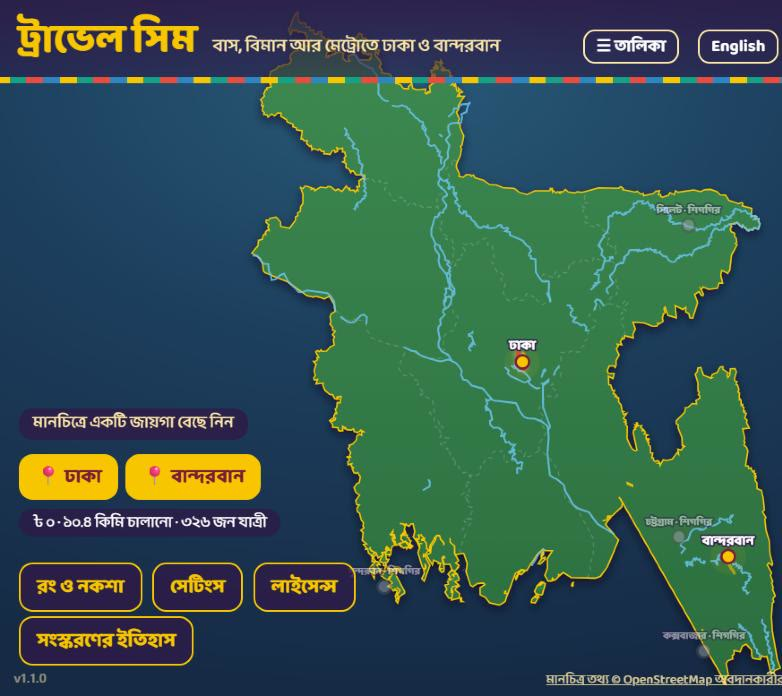
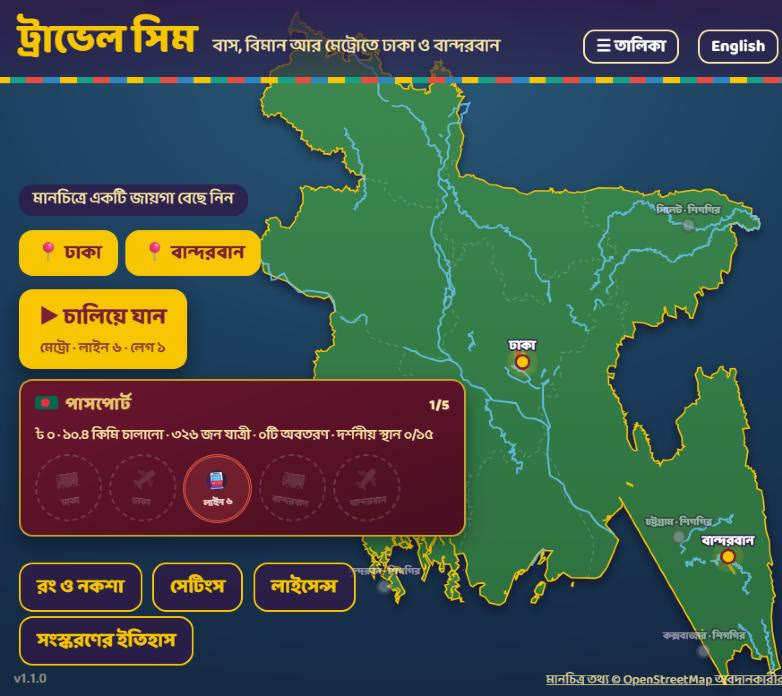
feat: add metro gamepad control, a passport card and map landmark names (v1.2.1)
The right stick drives the master controller (B emergency brake, LB/RB
doors, A close, Y camera). The map home shows a passport with career totals
and a stamp per place and mode played; zoomed-in places name their
landmarks at a constant size, decluttered, with found ones starred.

Changed region(s): [[0.0, 0.2414, 0.6138, 0.7845]]

diff --git a/src/i18n/i18n.ts b/src/i18n/i18n.ts
@@ -41,6 +41,7 @@ export const clock = (s: number): string =>
   num(`${Math.floor(Math.abs(s) / 60)}:${Math.floor(Math.abs(s) % 60).toString().padStart(2, '0')}`);
 
 const STOP_NAMES_BN: Record<string, string> = {
+  'Airport Terminal 3': 'বিমানবন্দর টার্মিনাল ৩', 'Farmgate metro station': 'ফার্মগেট মেট্রো স্টেশন', 'Novo Theatre': 'নভোথিয়েটার',
   'Uttara North': 'উত্তরা উত্তর', 'Uttara Center': 'উত্তরা মধ্য', 'Uttara South': 'উত্তরা দক্ষিণ', Pallabi: 'পল্লবী',
   'Mirpur 11': 'মিরপুর ১১', 'Mirpur 10': 'মিরপুর ১০', Kazipara: 'কাজীপাড়া', Shewrapara: 'শেওড়াপাড়া', Agargaon: 'আগারগাঁও',
   'Karwan Bazar': 'কারওয়ান বাজার', Shahbag: 'শাহবাগ', 'Dhaka University': 'ঢাকা বিশ্ববিদ্যালয়',
@@ -113,7 +114,7 @@ const EN: Dict = {
   chooseRoute: 'Choose a trip', chooseFlight: 'Choose a flight', km1: '{n} km', bestTk: 'best ৳ {n}', mapLabel: 'Map', legN: 'Leg {n}', rotatePhone: 'Turn your phone sideways to play', tiltToSteer: 'tilt to steer', tiltToFly: 'tilt to fly · ⟳ level', touchSteerLabel: 'Touch steering', touchFlightLabel: 'Touch flying', 'steer.wheel': 'Wheel', 'steer.tilt': 'Tilt', 'steer.buttons': 'Buttons', 'fly.stick': 'Stick', 'fly.tilt': 'Tilt', updateAvailable: 'Update available', downloadOffline: 'Download for offline', downloading: 'Downloading {p}%', downloaded: 'Ready offline',
   downloadFailed: 'Download failed: check the connection', addToHome: 'To play offline on iPhone, first add the game to your Home Screen (Share → Add to Home Screen).',
   storage: 'Offline storage', storageNone: 'nothing downloaded', storageWarn: 'Your browser may clear downloads when storage runs low; they download again when needed.',
-  delete: 'Delete', mb: '{n} MB', partial: 'partly cached', osmCredit: 'Map data © OpenStreetMap contributors', whatsNew: "What's new", gotIt: 'Got it', versionHistory: 'Version history', metroMode: 'Metro', mapHint: 'Choose a place on the map', listView: 'List', continueTrip: 'Continue', challengeN: 'Challenge {n}', mapTitle: 'Map of Bangladesh', 'place.chattogram': 'Chattogram · soon', 'place.sylhet': 'Sylhet · soon', 'place.coxsbazar': "Cox's Bazar · soon", 'place.sundarbans': 'Sundarbans · soon', touchEb: 'EMERGENCY', metroBlurb: 'Drive a six-car MRT Line 6 train on the real line: signals, stations, doors and passengers.', 'region.line6': 'Line 6', metroHelp: 'W / S master controller · Q / E doors · C close · Space emergency brake', 'cam.cab': 'Cab', 'cam.chase': 'Chase', 'cam.platform': 'Platform', 'cam.side': 'Alongside', 'cam.aerial': 'Aerial', 'cam.passenger': 'Passenger seat', 'cam.trackside': 'Trackside', metroControls: 'W / S: master controller · Space: emergency brake · Q / E: open doors left / right · C: close doors · V: camera', sideLeft: 'left', metroDue: 'due {t}', metroLate: 'late {t}', sideRight: 'right', arriving: 'Arriving at {name}. Doors will open on the {side}.', nextStation: 'Next station: {name}', doorsClosing: 'Doors closing. Please stand clear.', mayClose: 'Boarding complete: doors may close (C)', doorsWrongSide: 'The platform is on the {side}', stopShort: 'Short of the mark by {m} m: move up slowly', stopPerfect: 'Perfect stop ({m} m)', stopGood: 'Good stop ({m} m)', stopRough: 'Past the mark ({m} m): the doors only just line up', overrun: "Overran {name}: the doors can't open here", platformLeft: '{n} passengers left on the platform', legDone: '{name}: the end of this trip. All passengers have left the train.', currentVersion: 'current', loadMap: 'Loading the map…', loadStreets: 'Building the streets around you…', loadTraffic: 'Bringing in traffic and trains…', loadPrepare: 'Getting ready…', loadZone: 'Loading the flight area…', loadTerrain: 'Building hills and city below…', crossingClosed: 'Level crossing closed: a train is coming', volMaster: 'Volume', volMusic: 'Music', volSfx: 'Sound effects', volVoice: 'Helper voice', liveries: 'Liveries', unlockAt: '৳ {n} to unlock', inUse: 'In use', choose: 'Use',
+  delete: 'Delete', mb: '{n} MB', partial: 'partly cached', osmCredit: 'Map data © OpenStreetMap contributors', whatsNew: "What's new", gotIt: 'Got it', versionHistory: 'Version history', metroMode: 'Metro', passport: 'Passport', mapHint: 'Choose a place on the map', listView: 'List', continueTrip: 'Continue', challengeN: 'Challenge {n}', mapTitle: 'Map of Bangladesh', 'place.chattogram': 'Chattogram · soon', 'place.sylhet': 'Sylhet · soon', 'place.coxsbazar': "Cox's Bazar · soon", 'place.sundarbans': 'Sundarbans · soon', touchEb: 'EMERGENCY', metroBlurb: 'Drive a six-car MRT Line 6 train on the real line: signals, stations, doors and passengers.', 'region.line6': 'Line 6', metroHelp: 'W / S master controller · Q / E doors · C close · Space emergency brake', 'cam.cab': 'Cab', 'cam.chase': 'Chase', 'cam.platform': 'Platform', 'cam.side': 'Alongside', 'cam.aerial': 'Aerial', 'cam.passenger': 'Passenger seat', 'cam.trackside': 'Trackside', metroControls: 'W / S: master controller · Space: emergency brake · Q / E: open doors left / right · C: close doors · V: camera', sideLeft: 'left', metroDue: 'due {t}', metroLate: 'late {t}', sideRight: 'right', arriving: 'Arriving at {name}. Doors will open on the {side}.', nextStation: 'Next station: {name}', doorsClosing: 'Doors closing. Please stand clear.', mayClose: 'Boarding complete: doors may close (C)', doorsWrongSide: 'The platform is on the {side}', stopShort: 'Short of the mark by {m} m: move up slowly', stopPerfect: 'Perfect stop ({m} m)', stopGood: 'Good stop ({m} m)', stopRough: 'Past the mark ({m} m): the doors only just line up', overrun: "Overran {name}: the doors can't open here", platformLeft: '{n} passengers left on the platform', legDone: '{name}: the end of this trip. All passengers have left the train.', currentVersion: 'current', loadMap: 'Loading the map…', loadStreets: 'Building the streets around you…', loadTraffic: 'Bringing in traffic and trains…', loadPrepare: 'Getting ready…', loadZone: 'Loading the flight area…', loadTerrain: 'Building hills and city below…', crossingClosed: 'Level crossing closed: a train is coming', volMaster: 'Volume', volMusic: 'Music', volSfx: 'Sound effects', volVoice: 'Helper voice', liveries: 'Liveries', unlockAt: '৳ {n} to unlock', inUse: 'In use', choose: 'Use',
   'livery.city': 'City', 'livery.river': 'River Blue', 'livery.sunrise': 'Sunrise', 'livery.teal': 'Teal Express', 'livery.rickshaw': 'Rickshaw Art',
   'livery.classic': 'Classic', 'livery.monsoon': 'Monsoon', 'livery.mangrove': 'Mangrove', 'livery.jute': 'Golden Jute',
   saveCode: 'Save code', exportCode: 'Show my save code', importCode: 'Load a save code', copy: 'Copy', copied: 'Copied',
@@ -175,7 +176,7 @@ const BN: Dict = {
   chooseRoute: 'যাত্রা বেছে নিন', chooseFlight: 'ফ্লাইট বেছে নিন', km1: '{n} কিমি', bestTk: 'সেরা ৳ {n}', mapLabel: 'মানচিত্র', legN: 'লেগ {n}', rotatePhone: 'খেলতে ফোনটি আড়াআড়ি ঘোরান', tiltToSteer: 'কাত করে স্টিয়ারিং', tiltToFly: 'কাত করে উড়ুন · ⟳ সোজা', touchSteerLabel: 'টাচ স্টিয়ারিং', touchFlightLabel: 'টাচে ওড়া', 'steer.wheel': 'স্টিয়ারিং হুইল', 'steer.tilt': 'কাত', 'steer.buttons': 'বোতাম', 'fly.stick': 'জয়স্টিক', 'fly.tilt': 'কাত', updateAvailable: 'নতুন সংস্করণ এসেছে', downloadOffline: 'অফলাইনের জন্য ডাউনলোড', downloading: 'ডাউনলোড হচ্ছে {p}%', downloaded: 'অফলাইনে খেলা যাবে',
   downloadFailed: 'ডাউনলোড হয়নি: সংযোগ দেখুন', addToHome: 'আইফোনে অফলাইনে খেলতে আগে গেমটি হোম স্ক্রিনে যোগ করুন (Share → Add to Home Screen)।',
   storage: 'অফলাইন স্টোরেজ', storageNone: 'কিছু ডাউনলোড হয়নি', storageWarn: 'জায়গা কম পড়লে ব্রাউজার ডাউনলোড মুছে দিতে পারে; দরকার হলে আবার নামবে।',
-  delete: 'মুছুন', mb: '{n} এমবি', partial: 'আংশিক', osmCredit: 'মানচিত্র তথ্য © OpenStreetMap অবদানকারীরা', whatsNew: 'নতুন যা এসেছে', gotIt: 'ঠিক আছে', versionHistory: 'সংস্করণের ইতিহাস', metroMode: 'মেট্রো', mapHint: 'মানচিত্রে একটি জায়গা বেছে নিন', listView: 'তালিকা', continueTrip: 'চালিয়ে যান', challengeN: 'চ্যালেঞ্জ {n}', mapTitle: 'বাংলাদেশের মানচিত্র', 'place.chattogram': 'চট্টগ্রাম · শিগগির', 'place.sylhet': 'সিলেট · শিগগির', 'place.coxsbazar': 'কক্সবাজার · শিগগির', 'place.sundarbans': 'সুন্দরবন · শিগগির', touchEb: 'জরুরি ব্রেক', metroBlurb: 'আসল লাইনে ছয় বগির এমআরটি লাইন ৬ ট্রেন চালান: সিগন্যাল, স্টেশন, দরজা আর যাত্রী।', 'region.line6': 'লাইন ৬', metroHelp: 'W / S মাস্টার কন্ট্রোলার · Q / E দরজা · C বন্ধ · Space জরুরি ব্রেক', 'cam.cab': 'চালকের কেবিন', 'cam.chase': 'পেছন থেকে', 'cam.platform': 'প্ল্যাটফর্ম থেকে', 'cam.side': 'পাশ থেকে', 'cam.aerial': 'আকাশ থেকে', 'cam.passenger': 'যাত্রীর আসন', 'cam.trackside': 'লাইনের পাশ থেকে', metroControls: 'W / S: মাস্টার কন্ট্রোলার · Space: জরুরি ব্রেক · Q / E: বাম / ডান দরজা খুলুন · C: দরজা বন্ধ · V: ক্যামেরা', sideLeft: 'বাম', metroDue: 'সময় বাকি {t}', metroLate: '{t} দেরি', sideRight: 'ডান', arriving: 'আমরা {name} স্টেশনে পৌঁছাচ্ছি। দরজা {side} দিকে খুলবে।', nextStation: 'পরবর্তী স্টেশন: {name}', doorsClosing: 'দরজা বন্ধ হচ্ছে, দরজা থেকে দূরে দাঁড়ান।', mayClose: 'যাত্রী ওঠা শেষ: দরজা বন্ধ করা যায় (C)', doorsWrongSide: 'প্ল্যাটফর্ম {side} দিকে', stopShort: 'দাগের {m} মি আগে থেমেছেন: ধীরে এগোন', stopPerfect: 'নিখুঁত থামা ({m} মি)', stopGood: 'ভালো থামা ({m} মি)', stopRough: 'দাগ পেরিয়ে থেমেছেন ({m} মি): দরজা কোনোরকমে মেলে', overrun: '{name} পেরিয়ে গেছেন: এখানে দরজা খুলবে না', platformLeft: '{n} জন যাত্রী প্ল্যাটফর্মে রয়ে গেলেন', legDone: '{name}: যাত্রা শেষ। সব যাত্রী নেমে গেছেন।', currentVersion: 'চলতি', loadMap: 'মানচিত্র লোড হচ্ছে…', loadStreets: 'আশপাশের রাস্তা আর ভবন তৈরি হচ্ছে…', loadTraffic: 'যানবাহন আর ট্রেন আসছে…', loadPrepare: 'প্রস্তুত হচ্ছে…', loadZone: 'আকাশপথের এলাকা লোড হচ্ছে…', loadTerrain: 'নিচের পাহাড় আর শহর তৈরি হচ্ছে…', crossingClosed: 'রেলক্রসিং বন্ধ: ট্রেন আসছে', volMaster: 'ভলিউম', volMusic: 'গান', volSfx: 'শব্দ', volVoice: 'হেল্পারের কণ্ঠ', liveries: 'রং ও নকশা', unlockAt: '৳ {n} আয় হলে খুলবে', inUse: 'ব্যবহার হচ্ছে', choose: 'বেছে নিন',
+  delete: 'মুছুন', mb: '{n} এমবি', partial: 'আংশিক', osmCredit: 'মানচিত্র তথ্য © OpenStreetMap অবদানকারীরা', whatsNew: 'নতুন যা এসেছে', gotIt: 'ঠিক আছে', versionHistory: 'সংস্করণের ইতিহাস', metroMode: 'মেট্রো', passport: 'পাসপোর্ট', mapHint: 'মানচিত্রে একটি জায়গা বেছে নিন', listView: 'তালিকা', continueTrip: 'চালিয়ে যান', challengeN: 'চ্যালেঞ্জ {n}', mapTitle: 'বাংলাদেশের মানচিত্র', 'place.chattogram': 'চট্টগ্রাম · শিগগির', 'place.sylhet': 'সিলেট · শিগগির', 'place.coxsbazar': 'কক্সবাজার · শিগগির', 'place.sundarbans': 'সুন্দরবন · শিগগির', touchEb: 'জরুরি ব্রেক', metroBlurb: 'আসল লাইনে ছয় বগির এমআরটি লাইন ৬ ট্রেন চালান: সিগন্যাল, স্টেশন, দরজা আর যাত্রী।', 'region.line6': 'লাইন ৬', metroHelp: 'W / S মাস্টার কন্ট্রোলার · Q / E দরজা · C বন্ধ · Space জরুরি ব্রেক', 'cam.cab': 'চালকের কেবিন', 'cam.chase': 'পেছন থেকে', 'cam.platform': 'প্ল্যাটফর্ম থেকে', 'cam.side': 'পাশ থেকে', 'cam.aerial': 'আকাশ থেকে', 'cam.passenger': 'যাত্রীর আসন', 'cam.trackside': 'লাইনের পাশ থেকে', metroControls: 'W / S: মাস্টার কন্ট্রোলার · Space: জরুরি ব্রেক · Q / E: বাম / ডান দরজা খুলুন · C: দরজা বন্ধ · V: ক্যামেরা', sideLeft: 'বাম', metroDue: 'সময় বাকি {t}', metroLate: '{t} দেরি', sideRight: 'ডান', arriving: 'আমরা {name} স্টেশনে পৌঁছাচ্ছি। দরজা {side} দিকে খুলবে।', nextStation: 'পরবর্তী স্টেশন: {name}', doorsClosing: 'দরজা বন্ধ হচ্ছে, দরজা থেকে দূরে দাঁড়ান।', mayClose: 'যাত্রী ওঠা শেষ: দরজা বন্ধ করা যায় (C)', doorsWrongSide: 'প্ল্যাটফর্ম {side} দিকে', stopShort: 'দাগের {m} মি আগে থেমেছেন: ধীরে এগোন', stopPerfect: 'নিখুঁত থামা ({m} মি)', stopGood: 'ভালো থামা ({m} মি)', stopRough: 'দাগ পেরিয়ে থেমেছেন ({m} মি): দরজা কোনোরকমে মেলে', overrun: '{name} পেরিয়ে গেছেন: এখানে দরজা খুলবে না', platformLeft: '{n} জন যাত্রী প্ল্যাটফর্মে রয়ে গেলেন', legDone: '{name}: যাত্রা শেষ। সব যাত্রী নেমে গেছেন।', currentVersion: 'চলতি', loadMap: 'মানচিত্র লোড হচ্ছে…', loadStreets: 'আশপাশের রাস্তা আর ভবন তৈরি হচ্ছে…', loadTraffic: 'যানবাহন আর ট্রেন আসছে…', loadPrepare: 'প্রস্তুত হচ্ছে…', loadZone: 'আকাশপথের এলাকা লোড হচ্ছে…', loadTerrain: 'নিচের পাহাড় আর শহর তৈরি হচ্ছে…', crossingClosed: 'রেলক্রসিং বন্ধ: ট্রেন আসছে', volMaster: 'ভলিউম', volMusic: 'গান', volSfx: 'শব্দ', volVoice: 'হেল্পারের কণ্ঠ', liveries: 'রং ও নকশা', unlockAt: '৳ {n} আয় হলে খুলবে', inUse: 'ব্যবহার হচ্ছে', choose: 'বেছে নিন',
   'livery.city': 'শহুরে', 'livery.river': 'নদী নীল', 'livery.sunrise': 'সূর্যোদয়', 'livery.teal': 'টিল এক্সপ্রেস', 'livery.rickshaw': 'রিকশা আর্ট',
   'livery.classic': 'ক্লাসিক', 'livery.monsoon': 'বর্ষা', 'livery.mangrove': 'ম্যানগ্রোভ', 'livery.jute': 'সোনালি আঁশ',
   saveCode: 'সেভ কোড', exportCode: 'আমার সেভ কোড দেখান', importCode: 'সেভ কোড বসান', copy: 'কপি', copied: 'কপি হয়েছে',

diff --git a/src/ui/map/menuMap.ts b/src/ui/map/menuMap.ts
@@ -2,6 +2,7 @@
 // with its rivers and divisions, a pin for each playable Region (and dimmed coming-soon pins), the
 // routes you've driven lit up, and the landmarks you've found. It stays mounted while the menu
 // redraws, so choosing a Region can glide the view in and back out.
+import { place } from '../../i18n/i18n';
 import { LANDMARKS } from '../../shared/landmarks';
 import { BD_DIVISIONS, BD_ISLANDS, BD_LAND, BD_RIVERS, BD_VIEWBOX, bdXY } from './bdMap';
 
@@ -22,7 +23,7 @@ const SOON: Array<{ key: string; lat: number; lon: number }> = [
 ];
 /** How far to zoom on a Region: its centre and the width of view (km). */
 const FOCUS: Record<MapRegion, { lat: number; lon: number; km: number }> = {
-  dhaka: { lat: 23.79, lon: 90.39, km: 42 },
+  dhaka: { lat: 23.778, lon: 90.398, km: 19 },
   bandarban: { lat: 22.12, lon: 92.24, km: 46 },
 };
 
@@ -45,6 +46,11 @@ export class MenuMap {
     const [vx, vy, vw, vh] = BD_VIEWBOX;
     const routes = progress.routes.map(r => `<path class="route ${r.kind} ${r.done ? 'done' : ''}" d="${pathOf(r.latLon)}"/>`).join('');
     const found = LANDMARKS.filter(l => progress.found.has(l.name)).map(l => { const [x, y] = bdXY(l.lat, l.lon); return `<circle class="found" cx="${x.toFixed(2)}" cy="${y.toFixed(2)}" r="0.9"><title>${l.name}</title></circle>`; }).join('');
+    // Each Region's landmarks, labelled, shown only while that Region is zoomed in: found ones in gold.
+    const labels = PINS.map(r => `<g class="lm lm-${r.id}">${LANDMARKS.filter(l => l.places.some(pl => pl.startsWith(r.id))).map(l => {
+      const [x, y] = bdXY(l.lat, l.lon), got = progress.found.has(l.name);
+      return `<g class="lm-mark ${got ? 'got' : ''} ${l.tier}" transform="translate(${x.toFixed(2)},${y.toFixed(2)})"><circle/><text>${got ? '★ ' : ''}${place(l.name)}</text></g>`;
+    }).join('')}</g>`).join('');
     const pin = (x: number, y: number, cls: string, text: string, id?: string) => `
       <g class="pin ${cls}" transform="translate(${x.toFixed(2)},${y.toFixed(2)})" ${id ? `data-pin="${id}" tabindex="0" role="button" aria-label="${text}"` : ''}>
         <circle class="pulse" r="10"/><circle class="dot" r="6"/><text y="-11">${text}</text></g>`;
@@ -57,7 +63,7 @@ export class MenuMap {
         <g filter="url(#landShadow)"><path class="land" d="${BD_LAND}"/>${BD_ISLANDS.map(d => `<path class="land" d="${d}"/>`).join('')}</g>
         ${BD_DIVISIONS.map(d => `<path class="division" d="${d}"/>`).join('')}
         ${BD_RIVERS.map(r => `<path class="river" d="${r.d}"><title>${r.name}</title></path>`).join('')}
-        ${routes}${found}
+        ${routes}${found}${labels}
         ${SOON.map(p => { const [x, y] = bdXY(p.lat, p.lon); return pin(x, y, 'soon', this.label(p.key)); }).join('')}
         ${PINS.map(p => { const [x, y] = bdXY(p.lat, p.lon); return pin(x, y, `live ${p.id}`, this.label(`region.${p.id}`), p.id); }).join('')}
       </g></svg>`;
@@ -75,6 +81,7 @@ export class MenuMap {
     if (r === this.focusRegion) return;
     this.focusRegion = r;
     this.el.classList.toggle('focused', !!r);
+    this.el.dataset.focus = r ?? '';
     this.applyView();
   }
 
@@ -102,7 +109,7 @@ export class MenuMap {
       target = [cx - vw * (wide ? free / 2 : 0.5), cy - vh * (wide ? 0.5 : 0.22), vw, vh];
     }
     cancelAnimationFrame(this.anim);
-    if (instant) { this.view = target; this.svg.setAttribute('viewBox', target.join(' ')); return; }
+    if (instant) { this.view = target; this.svg.setAttribute('viewBox', target.join(' ')); this.scaleLabels(); this.declutter(); return; }
     const from = [...this.view], t0 = performance.now(), DUR = 900;
     const ease = (t: number) => 1 - Math.pow(1 - t, 3);
     const step = (now: number) => {
@@ -113,8 +120,34 @@ export class MenuMap {
       const x = from[0] + (target[0] - from[0]) * k, y = from[1] + (target[1] - from[1]) * k;
       this.view = [x, y, w, h];
       this.svg.setAttribute('viewBox', this.view.map(v => v.toFixed(2)).join(' '));
+      this.scaleLabels();
       if (k < 1) this.anim = requestAnimationFrame(step);
+      else this.declutter();
     };
     this.anim = requestAnimationFrame(step);
+  }
+
+  /** Landmark labels stay the same size on screen at any zoom: their sizes are set in screen pixels. */
+  private scaleLabels(): void {
+    const u = this.view[2] / (this.el.clientWidth || innerWidth);   // map units per screen pixel
+    this.svg.style.setProperty('--lm-font', `${(11 * u).toFixed(4)}px`);
+    this.svg.style.setProperty('--lm-r', `${(3 * u).toFixed(4)}px`);
+    this.svg.style.setProperty('--lm-dx', `${(6 * u).toFixed(4)}px`);
+    this.svg.style.setProperty('--lm-stroke', `${(2.5 * u).toFixed(4)}px`);
+  }
+
+  /** Hides labels that would overlap one already placed (found and hero landmarks go first). */
+  private declutter(): void {
+    if (!this.focusRegion) return;
+    const marks = [...this.el.querySelectorAll<SVGGElement>(`.lm-${this.focusRegion} .lm-mark`)];
+    marks.sort((a, b) => Number(b.classList.contains('got')) - Number(a.classList.contains('got')) || Number(b.classList.contains('hero')) - Number(a.classList.contains('hero')));
+    const placed: DOMRect[] = [];
+    for (const m of marks) {
+      const text = m.querySelector('text')!;
+      text.style.display = '';
+      const r = text.getBoundingClientRect();
+      const hit = placed.some(p => r.left < p.right + 4 && r.right + 4 > p.left && r.top < p.bottom + 2 && r.bottom + 2 > p.top);
+      if (hit) text.style.display = 'none'; else placed.push(r);
+    }
   }
 }

diff --git a/src/ui/menu.ts b/src/ui/menu.ts
@@ -210,18 +210,40 @@ async function mapProgress(): Promise<MapProgress> {
   return out;
 }
 
-/** The map home: a hint, the Regions as big buttons too, Continue, the career line and the links. */
+/** The map home: a hint, the Regions as big buttons too, Continue, the passport and the links. */
 function mapHome(p: Progress): string {
-  const c = p.career, last = readSave().lastTrip;
+  const last = readSave().lastTrip;
   return `<div class="map-home">
     <p class="map-hint">${t('mapHint')}</p>
     <div class="map-regions">${(['dhaka', 'bandarban'] as const).map(r => `<button class="btn" data-pick="${r}">📍 ${t(`region.${r}`)}</button>`).join('')}</div>
     ${last ? `<button class="btn continue" data-continue>▶ ${t('continueTrip')}<small>${last.label}</small></button>` : ''}
-    <div class="map-career">৳ ${amount(c.taka)} · ${t('careerKm', { n: num(c.km.toFixed(1)) })} · ${t('careerPax', { n: amount(c.passengers) })}</div>
+    ${passport(p)}
     <div class="links"><button class="btn alt" data-go='{"screen":"liveries"}'>${t('liveries')}</button>
       <button class="btn alt" data-go='{"screen":"settings"}'>${t('settings')}</button>
       <button class="btn alt" data-go='{"screen":"licences"}'>${t('licences')}</button>
       <button class="btn alt" data-go='{"screen":"history"}'>${t('versionHistory')}</button></div>
+  </div>`;
+}
+
+/**
+ * The career as a passport: the totals, and a stamp for each place and mode where a trip has been
+ * finished (any Leg for bus and metro, any Challenge for the plane).
+ */
+function passport(p: Progress): string {
+  const c = p.career;
+  const leg = (r: string) => Object.entries(p.legs).some(([k, v]) => k.startsWith(`${r}:`) && v?.done);
+  const ch = (r: string) => Object.entries(p.challenges).some(([k, v]) => k.startsWith(`${r}-`) && v?.done);
+  const stamps = [
+    { icon: '🚌', place: 'region.dhaka', done: leg('dhaka') },
+    { icon: '✈', place: 'region.dhaka', done: ch('dhaka') },
+    { icon: '🚇', place: 'region.line6', done: leg('line6') },
+    { icon: '🚌', place: 'region.bandarban', done: leg('bandarban') },
+    { icon: '✈', place: 'region.bandarban', done: ch('bandarban') },
+  ];
+  return `<div class="passport">
+    <div class="passport-head"><span class="bd-flag" aria-hidden="true"></span>${t('passport')}<span>${stamps.filter(s => s.done).length}/${stamps.length}</span></div>
+    <div class="passport-stats">৳ ${amount(c.taka)} · ${t('careerKm', { n: num(c.km.toFixed(1)) })} · ${t('careerPax', { n: amount(c.passengers) })} · ${t('careerLandings', { n: c.flightsLanded })} · ${t('landmarks', { n: landmarksFound().size, of: 15 })}</div>
+    <div class="stamps">${stamps.map((s, i) => `<span class="stamp ${s.done ? 'on' : ''}" style="--tilt:${[-8, 6, -4, 9, -6][i]}deg" title="${t(s.place)}">${s.icon}<small>${t(s.place)}</small></span>`).join('')}</div>
   </div>`;
 }
 

diff --git a/src/styles.css b/src/styles.css
@@ -359,3 +359,26 @@ button.app-version.link:hover, button.app-version.link:focus-visible { opacity: 
 
 /* Landscape phones are short: drop the destination picture so the trips show straight away. */
 @media (max-height: 420px) { .dest-card .dest-hero { display: none; } .dest-card { top: 64px; } }
+
+/* The passport career card on the map home: totals, and a stamp per place and mode played. */
+.passport { width: 100%; box-sizing: border-box; padding: 8px 12px 10px; border-radius: 12px; background: linear-gradient(160deg, #6a1630, #4a0f22); border: 2px solid #c9a227; box-shadow: 0 6px 16px rgba(0,0,0,.4); }
+.passport-head { display: flex; justify-content: space-between; align-items: baseline; color: #e9c46a; font: 800 15px var(--art-font); letter-spacing: .04em; }
+.passport-head span { font-size: 12px; color: var(--cream); }
+.passport-stats { margin: 4px 0 8px; font-size: 12px; color: var(--cream); line-height: 1.4; }
+.stamps { display: flex; gap: 6px; flex-wrap: wrap; }
+.stamp { width: 54px; height: 54px; border-radius: 50%; border: 2px dashed rgba(233,196,106,.45); display: grid; place-items: center; align-content: center; font-size: 18px; color: rgba(255,255,255,.35); filter: grayscale(1) opacity(.5); transform: rotate(var(--tilt)); }
+.stamp small { font: 700 8px var(--art-font); max-width: 50px; text-align: center; line-height: 1.1; }
+.stamp.on { border: 3px double #e05a47; color: #ffdfd8; filter: none; background: rgba(224,90,71,.18); }
+
+/* Landmark labels on the zoomed map: only the focused Region's, found ones in gold. */
+.menu-map .lm { display: none; }
+.menu-map[data-focus="dhaka"] .lm-dhaka, .menu-map[data-focus="bandarban"] .lm-bandarban { display: inline; }
+.menu-map .lm-mark circle { r: var(--lm-r); fill: #fff; stroke: var(--plum); stroke-width: 1px; vector-effect: non-scaling-stroke; opacity: .75; }
+.menu-map .lm-mark text { font-family: var(--art-font); font-weight: 700; font-size: var(--lm-font); transform: translate(var(--lm-dx), calc(var(--lm-font) * .35)); fill: rgba(255,255,255,.8); paint-order: stroke; stroke: rgba(46,26,71,.9); stroke-width: var(--lm-stroke); }
+.menu-map .lm-mark.got circle { fill: var(--yellow); opacity: 1; }
+.menu-map .lm-mark.got text { fill: var(--yellow); }
+/* Bangladesh's flag, drawn (Windows shows the flag emoji as the letters BD). */
+.bd-flag { display: inline-block; width: 20px; height: 12px; margin-right: 6px; vertical-align: -1px; border-radius: 2px; background: radial-gradient(circle at 45% 50%, #f42a41 0 3.6px, #006a4e 3.9px); }
+.passport-head > span:last-child { margin-left: auto; }
+.passport-head { justify-content: flex-start; }
+

diff --git a/src/metro/gamepad.ts b/src/metro/gamepad.ts
@@ -1,0 +1,38 @@
+// Metro gamepad controls (SPEC §20): the right stick is the master controller (up for power, centre
+// coast, down for brake; it only takes over once moved, so the keyboard still works), B is the
+// emergency brake, the bumpers open the left / right doors, A closes them, Y changes camera and the
+// View/Back button the map.
+import { NOTCH_MAX, type Train } from './Train';
+
+export interface MetroPadActions { doors: (side: 'left' | 'right') => void; close: () => void; camera: () => void; map: () => void; }
+
+const DEAD = 0.18;
+
+export class MetroGamepad {
+  private was: boolean[] = [];
+  private stickActive = false;
+
+  constructor(private train: Train, private a: MetroPadActions) {}
+
+  /** Call once a frame. */
+  poll(): void {
+    const gp = navigator.getGamepads?.().find(Boolean);
+    if (!gp) return;
+    // Right stick Y (axis 3): −1 up = P4, 0 = N, +1 down = B7.
+    const y = gp.axes[3] ?? 0;
+    if (Math.abs(y) > DEAD) this.stickActive = true;
+    if (this.stickActive && this.train.notch !== -8) {
+      const n = Math.abs(y) <= DEAD ? 0 : y < 0 ? Math.round(((-y - DEAD) / (1 - DEAD)) * NOTCH_MAX) : -Math.round(((y - DEAD) / (1 - DEAD)) * 7);
+      if (n !== this.train.notch) this.train.setNotch(n);
+    }
+    // Buttons on press (not while held).
+    const pressed = (i: number) => { const now = !!gp.buttons[i]?.pressed, edge = now && !this.was[i]; this.was[i] = now; return edge; };
+    if (pressed(1)) this.train.setNotch(-8);                 // B: emergency brake
+    if (pressed(4)) this.a.doors('left');                    // LB
+    if (pressed(5)) this.a.doors('right');                   // RB
+    if (pressed(0)) this.a.close();                          // A
+    if (pressed(3)) this.a.camera();                         // Y
+    if (pressed(8)) this.a.map();                            // View / Back
+    if (pressed(9)) dispatchEvent(new KeyboardEvent('keydown', { code: 'Escape' }));   // Menu / Start: pause
+  }
+}

diff --git a/src/config/changelog.ts b/src/config/changelog.ts
@@ -11,6 +11,21 @@ export interface Release {
 
 export const CHANGELOG: Release[] = [
   {
+    version: '1.2.1',
+    date: '2026-10-28',
+    image: '1.2.1.jpg',
+    bn: [
+      'গেমপ্যাডে মেট্রো চালান: ডান স্টিক মাস্টার কন্ট্রোলার, B জরুরি ব্রেক, LB/RB দরজা খোলা, A বন্ধ, Y ক্যামেরা।',
+      'নতুন পাসপোর্ট কার্ড: আপনার মোট হিসাব আর প্রতিটি জায়গা ও মোডের স্ট্যাম্প।',
+      'মানচিত্রে জুম করলে দর্শনীয় স্থানের নাম দেখা যায়; খুঁজে পাওয়াগুলো সোনালি তারায়।',
+    ],
+    en: [
+      'Drive the metro with a gamepad: right stick master controller, B emergency brake, LB/RB open doors, A closes them, Y camera.',
+      'A new passport card: your career totals and a stamp for every place and mode played.',
+      'Zoomed into a place, the map names its landmarks; the ones you have found get a gold star.',
+    ],
+  },
+  {
     version: '1.2.0',
     date: '2026-10-28',
     image: '1.2.0.jpg',

diff --git a/src/metro/main.ts b/src/metro/main.ts
@@ -20,6 +20,7 @@ import { audio } from '../audio/audio';
 import { Atp } from './atp';
 import { NOTCH_MAX, NOTCH_MIN, Train } from './Train';
 import { mountMetroTouch } from './touch';
+import { MetroGamepad } from './gamepad';
 import { TrainSounds } from './sounds';
 import { Passengers } from './passengers';
 import { onTrack, StationView } from './stations';
@@ -232,6 +233,7 @@ addEventListener('keydown', e => {
   else if (e.code === 'KeyM') minimap.toggle();
 });
 mountMetroTouch(train, { doors: openDoors, close: closeDoors, camera: nextCamera, map: () => minimap.toggle() });
+const pad = new MetroGamepad(train, { doors: openDoors, close: closeDoors, camera: nextCamera, map: () => minimap.toggle() });
 const pauseMenu = new PauseMenu({ restart: () => location.reload(), onChange: p => { paused = p; } });
 
 const eye = new THREE.Vector3(), look = new THREE.Vector3(), fwd = new THREE.Vector3(), chasePos = new THREE.Vector3();
@@ -370,6 +372,7 @@ startLoop(
     stepStation(dt);
   },
   (frameDt, ahead) => {
+    if (!paused) pad.poll();
     view.sync(paused ? 0 : ahead);
     for (const gv of ghostViews) gv.sync();
     view.setCabVisible(camMode === 'cab');

diff --git a/SPEC.md b/SPEC.md
@@ -341,7 +341,7 @@ Cameras: the **driver's cab is the default** (right-hand drive, as Bangladesh dr
   - Settings: language, quality (Auto picks Low on phones), play style (relaxed or scored), invert pitch, and the controls list. Storage per Region and the save code arrive with M11 and M9; progress and career stats are kept in localStorage until M9.
 - **Loading (v1.0.1):** a bus-art splash painted from `index.html` before any script runs: title, a striped progress bar fed by real loading stages (map, streets around you, traffic and trains, getting ready; flight: zone, terrain, getting ready), a status line and rotating tips in the player's language, and the version. It stays up until the nearby chunks (with their colliders) are in and every shader is compiled, then fades after the first frame. Menu screens that fetch data show a thin progress line across the top.
 - **Version and What's new (v1.0.0, 2026-10-28):** the version (`package.json`, built in by Vite) shows quietly in the bottom-left corner of the menu and pause screens. After an update, the menu shows a What's new card once, listing the releases since the player's last version from `src/config/changelog.ts` in their language; first-time players don't see it, and a save from before versions existed sees only the latest release. A **Version history** screen (from the corner version label or the mode-select links) lists every release with its date, newest first, the current one marked. Each release bumps `package.json`'s version and adds a changelog entry. Versions: **0.9.0** was the first public release (M11, 2026-10-27), **0.9.1** added the phone controls and headlight fix, **1.0.0** is the game through M12; the Metro Mode (M13) ships as **1.1.0**.
-- **Map menu (v1.2.0):** the game opens on an illustrated map of Bangladesh (land, islands, divisions and big rivers from the OSM extract via `npx tsx scripts/menu-map.ts`, simplified to ~0.8 km into `src/ui/map/bdMap.ts`, 32 KB) with pins for Dhaka and Bandarban and dimmed coming-soon pins (Chattogram, Sylhet, Cox's Bazar, Sundarbans). Choosing a place (its pin, or the matching button) glides the view in (the SVG viewBox is animated) and slides in a destination card: mode tabs (Dhaka: Bus, Plane, Metro; Bandarban: Bus, Plane), a picture of each, then the existing trip setup (Legs or Challenges, time and weather, Start, offline download). On phones under 640 px wide it's a bottom sheet; on short landscape screens the picture is dropped. Routes light up once a Leg on them is done; found landmarks are dots. **Continue** restarts the last trip started from the menu (kept in the save). A **List** toggle (remembered per device) shows the classic card menu. Each release in the changelog has a picture (`public/releases/`), shown in the Version history and the What's new card.
+- **Map menu (v1.2.0):** the game opens on an illustrated map of Bangladesh (land, islands, divisions and big rivers from the OSM extract via `npx tsx scripts/menu-map.ts`, simplified to ~0.8 km into `src/ui/map/bdMap.ts`, 32 KB) with pins for Dhaka and Bandarban and dimmed coming-soon pins (Chattogram, Sylhet, Cox's Bazar, Sundarbans). Choosing a place (its pin, or the matching button) glides the view in (the SVG viewBox is animated) and slides in a destination card: mode tabs (Dhaka: Bus, Plane, Metro; Bandarban: Bus, Plane), a picture of each, then the existing trip setup (Legs or Challenges, time and weather, Start, offline download). On phones under 640 px wide it's a bottom sheet; on short landscape screens the picture is dropped. Routes light up once a Leg on them is done; found landmarks are dots. **Continue** restarts the last trip started from the menu (kept in the save). A **List** toggle (remembered per device) shows the classic card menu. Each release in the changelog has a picture (`public/releases/`), shown in the Version history and the What's new card. **v1.2.1:** a passport card replaces the career line (totals, and five stamps: Bus and Plane in Dhaka and Bandarban, Metro on Line 6, each earned by finishing a trip there), and a zoomed-in Region names its landmarks at a constant 11 px, decluttered so labels never overlap (found ones in gold with a star).
 - **Language (revised 2026-10-27):** **বাংলা by default**, English optional. That covers Bangla text and Stop names, Bangla numerals (৳ ১,২৪০, ৩৫ কিমি/ঘণ্টা) and the Noto Sans Bengali font. The choice is remembered on the device.
 
 ## 14. Audio
@@ -456,7 +456,7 @@ A third mode: drive a six-car MRT Line 6 train along the real elevated line, Utt
 - **Announcements:** a chime and Bangla (and English) text for "next station", "doors closing" and arrival, with recorded voices to follow (like the Helper call-outs). The user, who rides the line, checks the wording.
 - **Controls:**
   - Keyboard: `W` / `S` notch up (power) and down (brake), `Space` emergency brake, `Q` / `E` open left / right doors, `C` close doors, `V` camera, `M` map.
-  - Gamepad: not yet (planned: the right stick moves the master controller; bumpers open doors; A closes them).
+  - Gamepad: the right stick is the master controller (up power, centre coast, down brake), B the emergency brake, LB / RB open left / right doors, A closes them, Y changes camera, View the map, Menu pauses.
   - Touch: a vertical master-controller lever on the right, door buttons on the left, EB on screen.
 - **Menu:** a third card, মেট্রো (Metro), with Leg and direction choice; career stats add stations served and kilometres driven.
-- **As built (M13a):** `npm run bake -- line6` reads OSM from the Geofabrik extract (no Overpass) and bakes a 19.2 km line (with 180 m of tail track past each terminus): a centreline midway between OSM's two tracks (4.9 m apart), smoothed; rail level 13 m over the 400 m running average of the ground; trains keep left. `line.json` holds both directions' tracks every 5 m with the 16 stations' stop marks (the train's front 60 m past the station centre) and 16 curve speed zones from the curve radius (30–90 km/h; 100 elsewhere). The Region bakes the city along the line (144 chunks, 33.5 MB) with one viaduct from that centreline: deck, parapets, two slab tracks with rails, 680 piers with caps in the road medians, and overhead-line masts, arms and contact wires. Stations and the train come in M13b–d. **As built (M13b):** `?play=metro&world=line6&leg=1..4` drives a six-car train (stainless cars with red and green bands, four doors a side, pantographs on cars 2 and 5) locked to its track: it can't leave the rails, only its speed changes. The master controller has P1–P4, N, B1–B7 and EB (`W`/`S`, `Space`); full power reaches 80 km/h in ~33 s, B7 is ~1.0 m/s² and EB stops from 48 km/h in ~85 m. Six cameras on `V`: cab (default; desk, controller and a screen with speed, limit, notch and next station), chase, alongside, aerial, a passenger seat inside car 3, and trackside. OSM buildings within 8 m of the viaduct are cleared (62 on Line 6). **As built (M13c):** ATP supervises against the most restrictive target ahead: every lower speed zone within 1.5 km and the end of authority (the next stop mark + 10 m), each on a 0.8 m/s² braking curve; a zone's limit holds until the whole train has cleared it. It warns (pulsed chime, OVERSPEED) at +3 km/h and applies a penalty brake at +6 km/h, both judged on the speed 1.5 s ahead while accelerating; the penalty brake builds up twice as fast as the driver's and holds until the train is back under and the controller is off power; passing the EoA fires the emergency brake. The driver display (in the cab and as a bottom-centre panel in every view) shows a 0–100 km/h dial with the permitted-speed hook, the target speed and distance bar, the notch and the ATP lamp. Tested on Line 6: a driver who holds full power gets one penalty brake and is stopped (never over by more than 1.8 km/h, no emergency); a careful driver gets no interventions, stops within 0.35 m of the mark, and reaches Uttara Center in 1.9 min. **As built (M13d):** the bake builds all 16 stations: 180 m side platforms at train-floor height with yellow edges, platform screen doors 0.45 m back with an opening at each of the 24 train doors when the train stops on the mark, back walls, a roof over both platforms on columns, and a concourse block over the street; buildings are cleared 14 m either side of the line at stations (96 on Line 6). Metro Mode adds bilingual name boards (Bangla over English, white on Line 6 green), a yellow car-count stop marker, sliding screen-door and train-door leaves, and a crowd of waiting passengers (busier at Uttara North, Mirpur 10, Agargaon, Farmgate, Karwan Bazar, Shahbag and Motijheel). A stop runs: arriving announcement ~400 m out (with the door side) → stop rated on its error (±0.3 m perfect, ±0.5 m good, up to +1.5 m rough; short means creep up; beyond +1.5 m an overrun skips the station) → `Q`/`E` opens the platform side (the wrong side is refused) → riders get off, then the queue boards, about one person per door per second → "doors may close" after 15 s → `C` closes them with a chime → dispatch: ATP authority to the next station and a "next station" announcement. The door interlock holds the brake while doors aren't locked. The trip starts at the first station with the doors open and people boarding; at the last, everyone gets off. A platform camera joins the set. **As built (M13e):** at start-up the game drives a reference run over each whole track (a careful driver with the same train and ATP); due times are its running times between stations with 6% slack plus a 30 s dwell each, which puts the whole line at about 35 minutes. The banner shows the next station, its distance and "due in" or "late by". Other trains run to the same profile: one 8 minutes ahead on your track (its tail, less 60 m, limits your authority if you catch up) and the two nearest on the other track; ghosts open their doors at stations. Scored play books fares at Dhaka Metro rates (Tk 20 + Tk 5/km, rounded to Tk 5, Tk 20–100, on half the remaining Leg as the average ride), Tk 30/15 for perfect/good stops, Tk 20 on time (±15 s), late arrivals −Tk 1/s and early departures −Tk 2/s (capped at 60), −Tk 5 per passenger left behind, −Tk 100 per overrun, −Tk 50 per penalty brake and −Tk 150 per emergency brake; stars for punctuality, comfort and safety. The Leg ends at its last station with the results screen (Next Leg, Retry, Menu) and is recorded in career stats under `line6`. A test Leg 1 (Uttara North → Agargaon, 8 stops) ran 10.4 km in about 19 minutes with every stop within 0.5 m. **As built (M13f, v1.1.0):** the menu has a third card, মেট্রো, opening Line 6's four Legs (all open from the start) with time and weather and offline download; Settings' storage lists the line. On phones: a vertical master-controller lever (drag up for power, down for brake, snapping to the 12 notches, with haptic ticks), an emergency-brake button, door buttons (left, close, right) and the icon row. Sounds are synthesised: the traction inverters' whine rising with speed, rolling rumble, brake hiss, a squeal in the last metres, and rising/falling door chimes. Gamepad control for the train isn't done yet (keyboard and touch only).
+- **As built (M13a):** `npm run bake -- line6` reads OSM from the Geofabrik extract (no Overpass) and bakes a 19.2 km line (with 180 m of tail track past each terminus): a centreline midway between OSM's two tracks (4.9 m apart), smoothed; rail level 13 m over the 400 m running average of the ground; trains keep left. `line.json` holds both directions' tracks every 5 m with the 16 stations' stop marks (the train's front 60 m past the station centre) and 16 curve speed zones from the curve radius (30–90 km/h; 100 elsewhere). The Region bakes the city along the line (144 chunks, 33.5 MB) with one viaduct from that centreline: deck, parapets, two slab tracks with rails, 680 piers with caps in the road medians, and overhead-line masts, arms and contact wires. Stations and the train come in M13b–d. **As built (M13b):** `?play=metro&world=line6&leg=1..4` drives a six-car train (stainless cars with red and green bands, four doors a side, pantographs on cars 2 and 5) locked to its track: it can't leave the rails, only its speed changes. The master controller has P1–P4, N, B1–B7 and EB (`W`/`S`, `Space`); full power reaches 80 km/h in ~33 s, B7 is ~1.0 m/s² and EB stops from 48 km/h in ~85 m. Six cameras on `V`: cab (default; desk, controller and a screen with speed, limit, notch and next station), chase, alongside, aerial, a passenger seat inside car 3, and trackside. OSM buildings within 8 m of the viaduct are cleared (62 on Line 6). **As built (M13c):** ATP supervises against the most restrictive target ahead: every lower speed zone within 1.5 km and the end of authority (the next stop mark + 10 m), each on a 0.8 m/s² braking curve; a zone's limit holds until the whole train has cleared it. It warns (pulsed chime, OVERSPEED) at +3 km/h and applies a penalty brake at +6 km/h, both judged on the speed 1.5 s ahead while accelerating; the penalty brake builds up twice as fast as the driver's and holds until the train is back under and the controller is off power; passing the EoA fires the emergency brake. The driver display (in the cab and as a bottom-centre panel in every view) shows a 0–100 km/h dial with the permitted-speed hook, the target speed and distance bar, the notch and the ATP lamp. Tested on Line 6: a driver who holds full power gets one penalty brake and is stopped (never over by more than 1.8 km/h, no emergency); a careful driver gets no interventions, stops within 0.35 m of the mark, and reaches Uttara Center in 1.9 min. **As built (M13d):** the bake builds all 16 stations: 180 m side platforms at train-floor height with yellow edges, platform screen doors 0.45 m back with an opening at each of the 24 train doors when the train stops on the mark, back walls, a roof over both platforms on columns, and a concourse block over the street; buildings are cleared 14 m either side of the line at stations (96 on Line 6). Metro Mode adds bilingual name boards (Bangla over English, white on Line 6 green), a yellow car-count stop marker, sliding screen-door and train-door leaves, and a crowd of waiting passengers (busier at Uttara North, Mirpur 10, Agargaon, Farmgate, Karwan Bazar, Shahbag and Motijheel). A stop runs: arriving announcement ~400 m out (with the door side) → stop rated on its error (±0.3 m perfect, ±0.5 m good, up to +1.5 m rough; short means creep up; beyond +1.5 m an overrun skips the station) → `Q`/`E` opens the platform side (the wrong side is refused) → riders get off, then the queue boards, about one person per door per second → "doors may close" after 15 s → `C` closes them with a chime → dispatch: ATP authority to the next station and a "next station" announcement. The door interlock holds the brake while doors aren't locked. The trip starts at the first station with the doors open and people boarding; at the last, everyone gets off. A platform camera joins the set. **As built (M13e):** at start-up the game drives a reference run over each whole track (a careful driver with the same train and ATP); due times are its running times between stations with 6% slack plus a 30 s dwell each, which puts the whole line at about 35 minutes. The banner shows the next station, its distance and "due in" or "late by". Other trains run to the same profile: one 8 minutes ahead on your track (its tail, less 60 m, limits your authority if you catch up) and the two nearest on the other track; ghosts open their doors at stations. Scored play books fares at Dhaka Metro rates (Tk 20 + Tk 5/km, rounded to Tk 5, Tk 20–100, on half the remaining Leg as the average ride), Tk 30/15 for perfect/good stops, Tk 20 on time (±15 s), late arrivals −Tk 1/s and early departures −Tk 2/s (capped at 60), −Tk 5 per passenger left behind, −Tk 100 per overrun, −Tk 50 per penalty brake and −Tk 150 per emergency brake; stars for punctuality, comfort and safety. The Leg ends at its last station with the results screen (Next Leg, Retry, Menu) and is recorded in career stats under `line6`. A test Leg 1 (Uttara North → Agargaon, 8 stops) ran 10.4 km in about 19 minutes with every stop within 0.5 m. **As built (M13f, v1.1.0):** the menu has a third card, মেট্রো, opening Line 6's four Legs (all open from the start) with time and weather and offline download; Settings' storage lists the line. On phones: a vertical master-controller lever (drag up for power, down for brake, snapping to the 12 notches, with haptic ticks), an emergency-brake button, door buttons (left, close, right) and the icon row. Sounds are synthesised: the traction inverters' whine rising with speed, rolling rumble, brake hiss, a squeal in the last metres, and rising/falling door chimes. Gamepad control arrived in v1.2.1.

diff --git a/README.md b/README.md
@@ -106,14 +106,14 @@ Touch controls work like a mobile driving sim: a steering wheel you turn with yo
 
 **Metro**
 
-| Action | Keyboard |
-|---|---|
-| Master controller: more power / more brake (one notch) | `W` / `S` or `↑` / `↓` |
-| Emergency brake | `Space` |
-| Open doors left / right | `Q` / `E` |
-| Close doors | `C` |
-| Camera (7 views) / map | `V` / `M` |
-| Pause | `Esc` |
+| Action | Keyboard | Gamepad |
+|---|---|---|
+| Master controller: more power / more brake | `W` / `S` or `↑` / `↓` (one notch) | right stick up / down |
+| Emergency brake | `Space` | B |
+| Open doors left / right | `Q` / `E` | LB / RB |
+| Close doors | `C` | A |
+| Camera (7 views) / map | `V` / `M` | Y / View |
+| Pause | `Esc` | Menu |
 
 Add `?invert=1` to the URL to invert pitch, and `?fps=1` for a frame-rate readout.
 
@@ -124,13 +124,13 @@ Add `?invert=1` to the URL to invert pitch, and `?fps=1` for a frame-rate readou
 | ![The menu: an illustrated map of Bangladesh with Dhaka and Bandarban pins](docs/images/menu-map.jpg) | ![Dhaka chosen: the map zooms in and a card offers Bus, Plane and Metro](docs/images/menu-destination.jpg) |
 | *The game opens on Bangladesh; coming-soon places are dimmed* | *Choose a place: the map zooms in, the card has every mode, its trips, and time and weather* |
 
-The routes you've driven light up on the map, and a **Continue** button restarts your last trip in one tap. Prefer lists? The **List** button brings back the classic menu cards. After an update, a **What's new** card shows the changes once, and the **Version history** (tap the version in the corner) has every release with its picture.
+The routes you've driven light up on the map, zoomed-in places name their landmarks (the ones you've found get a gold star), a **passport** card collects a stamp for every place and mode you've played, and a **Continue** button restarts your last trip in one tap. Prefer lists? The **List** button brings back the classic menu cards. After an update, a **What's new** card shows the changes once, and the **Version history** (tap the version in the corner) has every release with its picture.
 
 | | |
 |:-:|:-:|
 | ![The What's new card shown after an update](docs/images/whats-new.jpg) | ![The classic menu cards: Bus, Plane and Metro](docs/images/menu.jpg) |
 
-**Current version: 1.2.0**, with the map menu. 1.1.0 added Metro Mode on MRT Line 6.
+**Current version: 1.2.1**: gamepad control for the metro, the passport card and landmark names on the map. 1.2.0 brought the map menu; 1.1.0 added Metro Mode on MRT Line 6.
 
 ## Build it yourself
 
